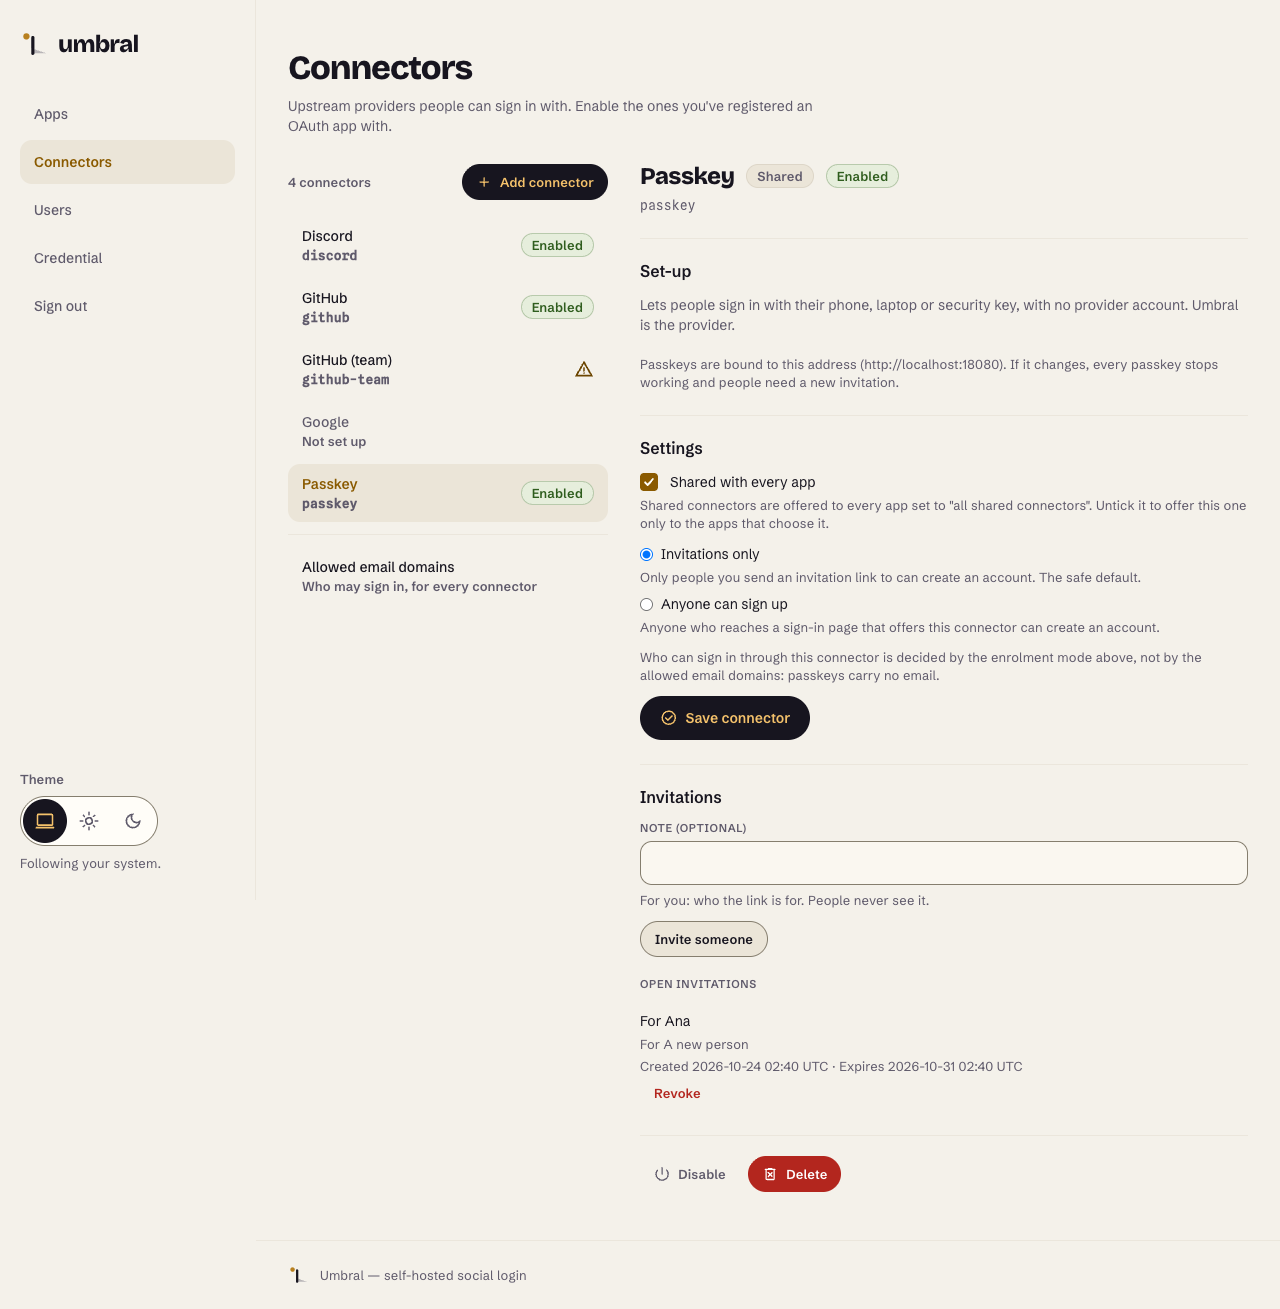
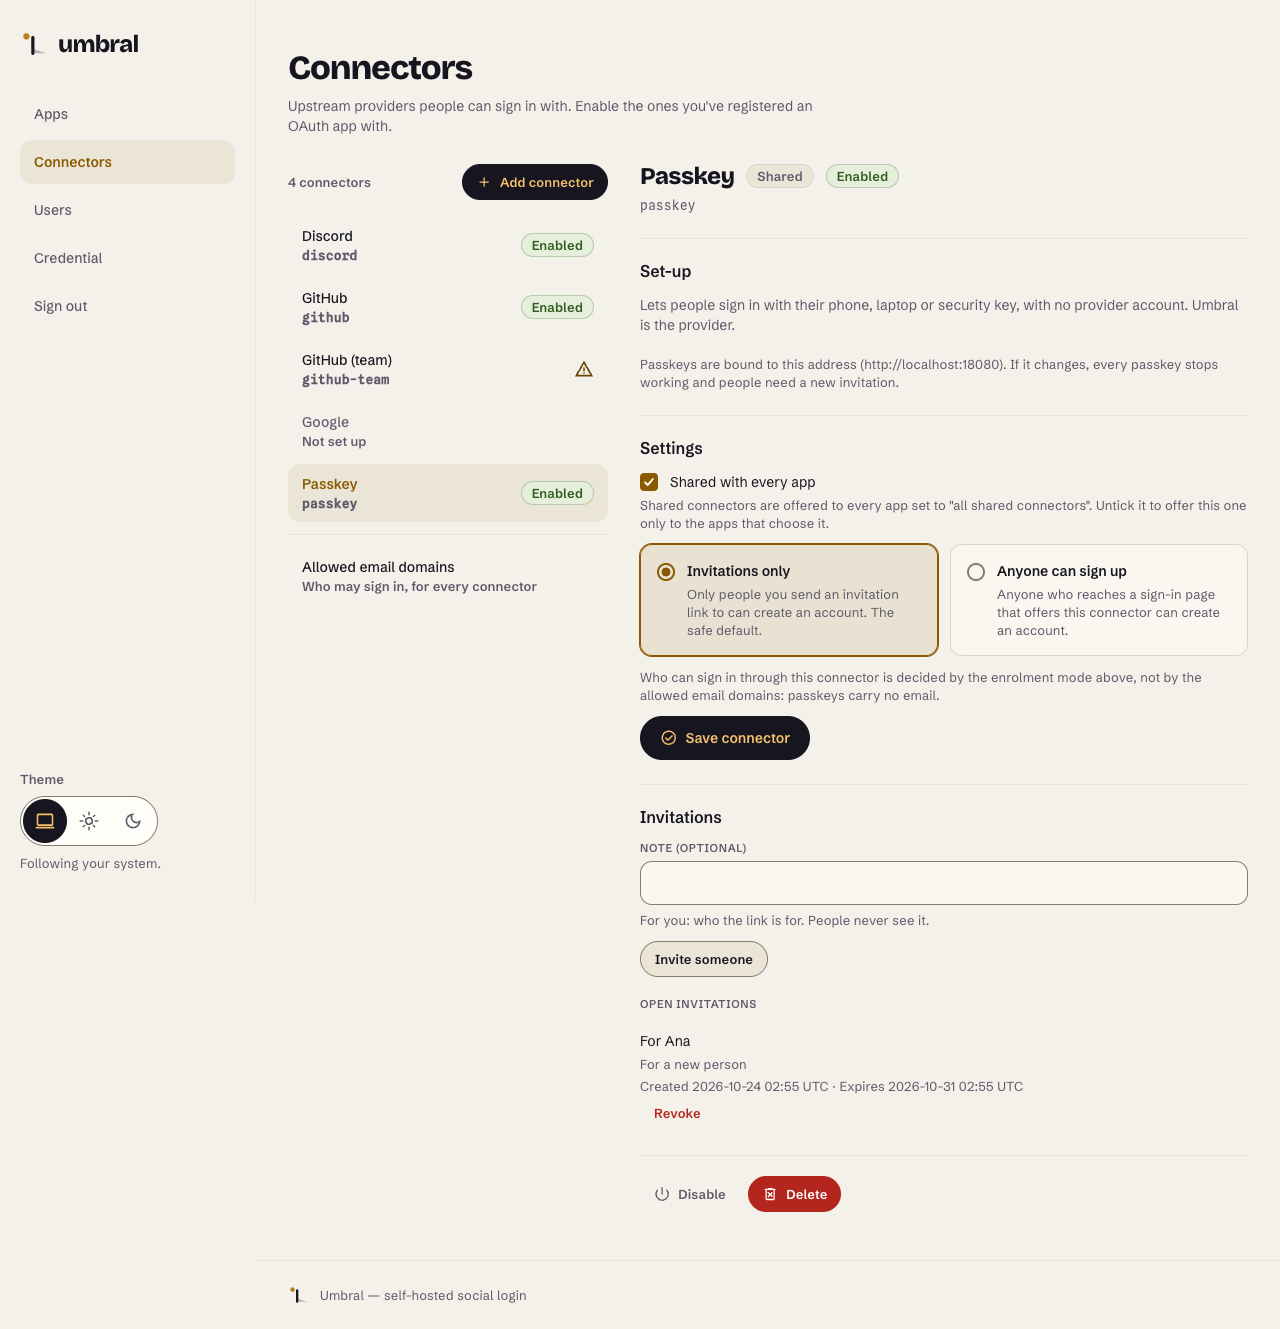
fix(passkey): enrolment as radio cards, "For a new person"; design review clear
The two nits of the design review (.alta/reviews/2026-10-23-connectors-master-detail/review.md,
clear at c027173): the enrolment choice in the Passkey pane uses the .um-choice radio
cards the Apps pane already uses, instead of the browser's own radios, and an open
invitation for someone new reads "For a new person". review.md committed.

diff --git a/.alta/reviews/2026-10-23-connectors-master-detail/review.md b/.alta/reviews/2026-10-23-connectors-master-detail/review.md
@@ -1,0 +1,99 @@
+# Review: the Connectors screen as a list and a detail pane
+
+Task: `.alta/tasks/2026-10-23-connectors-screen-as-a-list-and-a-detail-pane-c0nn.md`
+Contract: `design/contracts/apps-connectors-master-detail.md`, sections 1 (as amended) and 3.
+Branch: `alta/urbane-zambezi-t9pn` from `main` at `1f3a89e`; commits `bbdb4a8` (the work) and
+`c027173` (Revoke as a red ghost, this folder). Reviewed 2026-10-23 by the design reviewer from
+the diff, the detector, a test run, and the 37 captures.
+
+## Verdict
+
+**Clear to merge. No blocking items; two nits, both pre-existing, that may land on this branch
+before the merge or go to a queued task.** All nine decisions in `notes.md` stand.
+
+## What was checked
+
+- The frame is reused unchanged: no diff in `Components.frame*`, `pane*`, the `.um-frame`,
+  `.um-entry`, `.um-pane-*` rules or the frame code in `umbral.js`. The two additions are
+  outside it and small: one rule muting a not-set-up entry's title at rest (hover and selection
+  undo it), and the pinned hairline as a presentational `div` between two entry groups.
+- List order against §3: configured connectors in kind order then slug, the kinds not set up
+  (muted, "Not set up"), Passkey, then the hairline and **Allowed email domains** with its
+  catalogue line. Markers: the state badge, or the Warning icon with "Needs attention" replacing
+  it for a connector offered nowhere or with an unreadable store; nothing on a kind not set up
+  or on the pinned entry. Checked in `list-first-selected` and `attention`.
+- Panes against §3: provider (heading, slug as mono hint, pills; notices; Set-up with the naming
+  note, the callback URL with copy, the caveat where there is one, the rule sentence; Settings
+  with the form and the full-size primary Save; the closing row with Disable and Delete); a kind
+  not set up (the same without a closing row, "Not set up" pill); Passkey (Set-up, Settings,
+  Invitations, closing row); add at `/new`; domains at `/domains` with one untitled section
+  and its primary Save.
+- URLs and redirects: `/admin/connectors`, `/<slug>`, `/new`, `/domains`; every connector POST
+  lands on its detail URL, delete and unknown on the list, add refusals on `/new`, passkey
+  actions on `/passkey`, the domains save on `/domains`; in-place refusals redraw the pane with
+  422; unknown slug is 404 with the list. `new` and `domains` refused as slugs.
+- htmx: entries, the pinned entry and Add swap the frame and push; the toggles swap the frame
+  without pushing, so the badge changes in list and pane together (`toggle` captures).
+- One red fill per pane, including Passkey after `c027173` (Revoke as a red ghost, with its
+  hover class). The strand and removal confirmations keep their red fill inside their notice:
+  they are the irreversible step, shown only after a refusal, as on Apps.
+- Titles name what the URL shows; focus lands on the pane heading after a swap (implementer's
+  browser notes, consistent with the Apps task I checked).
+- Refusal notices are warnings, as on Apps after its review.
+- DESIGN.md "List and detail" names Connectors and records the muted entry and the pinned
+  hairline in two sentences. Texts.fs changes are all wording that said "card".
+- Captures: no overflow at 360 (the add form, the domains pane, the Discord pane); the pinned
+  entry reads as apart from the connectors without looking like a different control; the
+  muted Google entry reads as "not yet" rather than disabled.
+- Tests, stylesheet, detector: see the last section.
+
+## Nits (pre-existing, made visible by the pane)
+
+1. **"For A new person."** An open invitation's line joins `PasskeyInvitationForLabel` ("For")
+   and `PasskeyInvitationForNew` ("A new person") with a space, so the capital A sits
+   mid-sentence. Make the second string "a new person", or give the item one string "For a new
+   person" and another "For <name>". Catalogue only.
+2. **The enrolment radios are native controls.** `enrolmentRadio` draws a bare
+   `input type="radio"`, which in the light theme is the system's blue, the one blue on the
+   page. The smallest fix is `accent-color: var(--color-primary)` on `input[type="radio"]` and
+   `input[type="checkbox"]` in the base layer, which also covers any future native control;
+   the fuller one is the `.um-choice-radio` drawing. Either keeps the labels and hints as they
+   are.
+
+If you take them here, send me the commit and I will look at the two lines; no full re-check
+is needed for them.
+
+## Decisions in notes.md
+
+All nine stand:
+
+1. Count of connectors set up, Passkey included, "No connector set up yet" at zero: right; it
+   counts what the operator has done, not rows.
+2. `new` and `domains` reserved, refused as "already taken", no migration: right.
+3. Refusal notices as warnings: right, and consistent with Apps.
+4. Revoke as a red ghost: right. Inviting again undoes it, so it is Remove logo's case, and
+   Delete stays the pane's one red fill. The in-notice confirmations keep theirs.
+5. Passkey offered nowhere gets the same note as a provider: right; the marker needs something
+   to point at.
+6. Invite someone as a small secondary, Save connector and Enable passkeys full-size primary:
+   right, exactly §1's rule.
+7. "Open invitations" as a `.um-label` inside Invitations: right; a second title there would
+   outrank the section's.
+8. First entry current on the list URL at every width: as Apps, as §5.
+9. No item notice on the list URL's pane: right; those three notices are about the list.
+
+## For the Fediverse task
+
+Its connector becomes a pane of this frame per `design/contracts/fediverse-connector-ui.md`
+section 1: entry after the kinds not set up and before Passkey; pane sections Set-up (lead,
+callback URL, the no-email note), Settings (shared, instance scope, servers, Save), closing
+row. Nothing in this review changes that.
+
+## Tests, stylesheet, detector
+
+Run by the reviewer on the branch's worktree at `c027173`, 2026-10-23:
+`dotnet test` with the Connector, Passkey, AllowedDomain, Csrf and Rail filters: 421 passed,
+0 failed (the implementer reports the full suite at 1425 passing at `bbdb4a8`).
+`build-css.sh --check`: clean, `umbral.css` is current.
+Impeccable detector on `umbral.input.css`: one advisory, the pre-existing crop-shade colour;
+nothing from this change.

diff --git a/.alta/reviews/2026-10-23-connectors-master-detail/notes.md b/.alta/reviews/2026-10-23-connectors-master-detail/notes.md
@@ -165,3 +165,11 @@ htmx, at 1280: a click on the Passkey entry pushes `/admin/connectors/passkey`, 
 Connectors | Umbral", focus lands on the pane's `h2`, one `[data-frame]`. The pinned entry likewise
 (`/admin/connectors/domains`, it is the one `aria-current`). Disable on GitHub's pane: the URL stays
 `/admin/connectors/github`, one frame, the entry reads "Disabled", the pane's notice is `connector-disabled`.
+
+## After the review (review.md: clear, two nits)
+
+- Nit 1: `PasskeyInvitationForNew` "A new person" → "a new person", so an open invitation reads "For a new person".
+- Nit 2: the enrolment choice in the Passkey pane uses the `.um-choice` radio cards the Apps pane draws its
+  sign-in methods with (`um-choice-group`, `um-choice`, `um-choice-radio`), side by side from `md`. No new CSS
+  rule: `umbral.css` is unchanged and `build-css.sh --check` passes. Recaptured: `detail-passkey` at 1280 and 360,
+  dark and light. Connector, passkey and allowed-domains filters: 403 passed, 0 failed.
